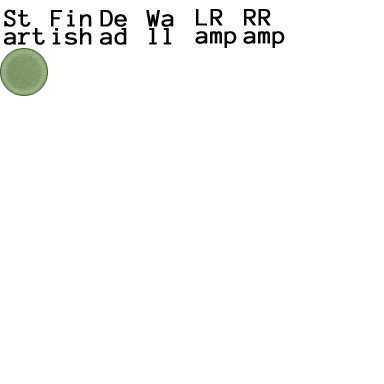
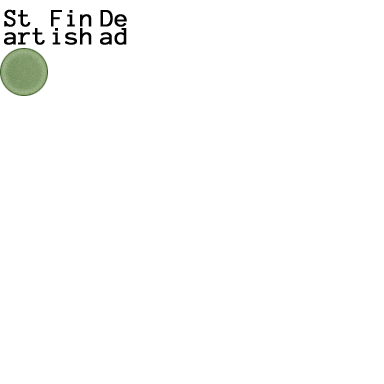
Better collisions & controls

Changed region(s): [[0.5, 0.0, 0.75, 0.125], [0.375, 0.0312, 0.4688, 0.125]]

diff --git a/game/player.js b/game/player.js
@@ -4,10 +4,10 @@ define(['consts', 'wan-components'], function(consts) {
 
 c.c('Player', {
   
-  ACCELERATION: 0.9,
-  BOUNCING: 0.3,
+  ACCELERATION: 1.2,
+  BOUNCING: 0.4,
   FRICTION: 0.85,
-  JUMP: 7,
+  JUMP_TABLE: [7],
 
   init: function() {
     this.addComponent('Image, Keyboard, Canvas, Collision');
@@ -24,85 +24,122 @@ c.c('Player', {
     this.onHit('Ramp', this._hitRamp);
     this.xSpeed = 0;
     this.ySpeed = 0;
+    this.prevX = 0;
+    this.prevY = 0;
+    this.collisions = {};
+    
+    this.jumping = false;
+    this.bodySize = 1;
   },
   
   _enterFrame: function(e) {
-    if (this.isDown('LEFT_ARROW')) {
-      this.xSpeed -= this.ACCELERATION;
+    // Handle collisions
+    if (this.collisions.hitFloor && !this.collisions.hitCeiling) {
+      // Floor
+      if (Math.abs(this.collisions.hitFloor.overlap) > 1) {
+        this.y -= Math.abs(this.collisions.hitFloor.overlap) / 2;
+      }
+      else {
+        this.ySpeed = 0;
+      }
+      this.ySpeed *= -this.BOUNCING;
+      // Fall from edges
+      var i = this.collisions.hitFloor.obj.i, j = this.collisions.hitFloor.obj.j;
+      if (this.x - this.collisions.hitFloor.obj.x > 30
+        && !this.level[i+1][j] && Math.abs(this.xSpeed) < 3) {
+        this.xSpeed++;
+      }
+      if (this.x - this.collisions.hitFloor.obj.x < -30
+        && !this.level[i-1][j] && Math.abs(this.xSpeed) < 3) {
+        this.xSpeed--;
+      }
     }
-    if (this.isDown('RIGHT_ARROW')) {
-      this.xSpeed += this.ACCELERATION;
+    else if (!this.collisions.hitFloor && this.collisions.hitCeiling) {
+      // Ceiling
+      this.ySpeed *= -this.BOUNCING;
+      this.y -= this.collisions.hitCeiling.overlap;
     }
-    if (this.isDown('UP_ARROW') && this.onFloor) {
-      this.ySpeed = -this.JUMP;
+    if (this.collisions.hitLeftWall && !this.collisions.hitRightWall) {
+      // Left wall
+      this.xSpeed *= this.FRICTION;
+      this.x -= this.collisions.hitLeftWall.overlap;
     }
-    this.xSpeed *= this.FRICTION;
+    else if (!this.collisions.hitLeftWall && this.collisions.hitRightWall) {
+      // Right wall
+      this.xSpeed *= this.FRICTION;
+      this.x += this.collisions.hitRightWall.overlap;
+    }
+    else if (this.collisions.hitLeftWall && this.collisions.hitRightWall) {
+      // Vertical "tube"
+      this.xSpeed = 0;
+    }
     
-    if (!this.onFloor) {
+    // Handle physics
+    if (!this.collisions.hitFloor) {
       this.ySpeed += consts.GRAVITY;
     }
-    this.onFloor = false;
+    else if (this.jumping) {
+      this.jumping = false;
+    }
+    if (!this.jumping) {
+      this.xSpeed *= this.FRICTION;
+    }
     
+    // Handle controls
+    if (!this.jumping) {
+      if (this.isDown('LEFT_ARROW') && !this.collisions.hitLeftWall) {
+        this.xSpeed -= this.ACCELERATION;
+      }
+      if (this.isDown('RIGHT_ARROW') && !this.collisions.hitRightWall) {
+        this.xSpeed += this.ACCELERATION;
+      }
+      if (this.isDown('UP_ARROW') && !this.jumping
+        && this.collisions.hitFloor && !this.collisions.hitCeiling) {
+        if (this.isDown('LEFT_ARROW')) {
+          this.xSpeed = -5;
+        }
+        if (this.isDown('RIGHT_ARROW')) {
+          this.xSpeed = 5;
+        }
+        this.ySpeed = -this.JUMP_TABLE[this.bodySize - 1];
+        this.jumping = true;
+      }
+    }
+    
+    // Update position/rotation
     this.x += this.xSpeed;
     this.y += this.ySpeed;
-    this.rotation += this.xSpeed;
+    this.rotation += (this.x - this.prevX) * 2;
+    this.prevX = this.x;
+    this.prevY = this.y;
+    
+    this.collisions = {};
   },
   
   _hitWall: function(e) {
+    // Collisions lookup object: hitFloor, hitCeiling, hitLeftWall, hitRightWall
+    
     _.each(e, function(collision) {
-      // If top almost reached, consider it a floor
-      if (collision.normal.x != 0 && collision.obj.y - this.y > this.h - 30) {
-        collision.normal = {x: 0, y: -1};
-        this.xSpeed *= .8;
+      if (collision.normal.x == 1) {
+        this.collisions.hitLeftWall = collision;
       }
-  
-      // Walls
-      if (collision.normal.x == -1) {
-        this.xSpeed *= -this.BOUNCING;
-        if (collision.overlap < 1) {
-          this.x += collision.overlap;
-        }
+      else if (collision.normal.x == -1) {
+        this.collisions.hitRightWall = collision;
       }
-     else if (collision.normal.x == 1) {
-      this.xSpeed *= -this.BOUNCING;
-      if (collision.overlap < 1) {
-        this.x -= collision.overlap;
+      else if (collision.normal.y == -1) {
+        this.collisions.hitFloor = collision;
       }
-     }
-     
-     // Floor
-     else if (collision.normal.y == -1) {
-      this.onFloor = true;
-      this.ySpeed *= -this.BOUNCING;
-      if (collision.overlap < 1) {
-        this.y += collision.overlap;
+      else if (collision.normal.y == 1) {
+        this.collisions.hitCeiling = collision;
       }
-     }
-     
-     // Ceiling
-     else if (collision.normal.y == 1) {
-      this.ySpeed = 0;
-      if (collision.overlap < 1) {
-        this.y -= collision.overlap;
-      }
-     }
-     
-    }, this);
-  },
-  
-  _hitRamp: function(e) {
-    _.each(e, function(collision) {
-       this.onFloor = true;
-       this.x -= collision.normal.x * collision.overlap;
-       this.y -= collision.normal.y * collision.overlap;
-       this.xSpeed *= 1.1;
     }, this);
   }
+  
 });
 
 c.c('Wall', {
   
-  MARGIN: 1,
+  MARGIN: 0,
 
   init: function() {
     this.addComponent('Collision');
@@ -111,26 +148,6 @@ c.c('Wall', {
       [this.w-this.MARGIN,this.MARGIN],
       [this.w-this.MARGIN,this.w-this.MARGIN],
       [this.MARGIN,this.w-this.MARGIN]);
-  }
-  
-});
-
-c.c('LeftRamp', {
-
-  init: function() {
-    this.addComponent('Ramp, Collision');
-    this.attr({w: consts.TILESIZE, h: consts.TILESIZE});
-    this.collision([48,0], [48,48], [0,48]);
-  }
-  
-});
-
-c.c('RightRamp', {
-
-  init: function() {
-    this.addComponent('Ramp, Collision');
-    this.attr({w: consts.TILESIZE, h: consts.TILESIZE});
-    this.collision([0,0], [48,48], [0,48]);
   }
   
 });

diff --git a/game/tiledLevel.js b/game/tiledLevel.js
@@ -24,12 +24,12 @@
           if (tsProperties[tNum - 1 - tNumOffset]) {
             var tsPropIndex = tNum - 1 - tNumOffset;
             if (tsProperties[tsPropIndex]["components"]) {
-             // if (tsProperties[tsPropIndex]["object"] !== undefined) {
+              if (tsProperties[tsPropIndex]["object"] !== undefined) {
                 components = "2D, " + drawType + ", " + tsProperties[tsPropIndex]["components"];
-             /* }
+              }
               else {
                 components += ", " + tsProperties[tsPropIndex]["components"];
-              }*/
+              }
             }
           }
         }
@@ -50,13 +50,28 @@
     makeLayer: function(layer) {
       var i, lData, lHeight, lWidth, tDatum, tile, _len;
       lData = layer.data, lWidth = layer.width, lHeight = layer.height;
+      var level = [];
       for (i = 0, _len = lData.length; i < _len; i++) {
         tDatum = lData[i];
+        var tileI = i % lWidth;
+        var tileJ = Math.floor(i / lHeight);
+        
         if (tDatum) {
           tile = Crafty.e("tile" + tDatum);
           tile.x = (i % lWidth) * tile.w;
           tile.y = (i / lWidth | 0) * tile.h;
+          tile.i = tileI;
+          tile.j = tileJ;
+          tile.level = level;
+          
+          // Fill level table
+          if (!level[tileI]) {
+            level[tileI] = [];
+          }
+          level[tileI][tileJ] = tile;
         }
+        
+        
       }
       return null;
     },

diff --git a/game/game.js b/game/game.js
@@ -10,8 +10,11 @@ define(['consts', 'wan-components', 'tiledLevel', 'player'], function(consts) {
 
     // Game scene
     c.scene('game', function() {
-      Crafty.e('TiledLevel').tiledLevel('level1.json', 'Canvas', function() {
+      c.e('TiledLevel').tiledLevel('level1.json', 'DOM', function() {
         console.log('level1.json loaded');
+      });
+      c.e('2D, DOM, Text').bind('EnterFrame', function() {
+        this.text(c.timer.getFPS());
       });
     });
     

diff --git a/lib/crafty.js b/lib/crafty.js
@@ -4128,7 +4128,7 @@ Crafty.storage = (function () {
     * @comp Crafty.support
     * Is WebGL supported on the canvas element?
     */
-    if (support.canvas) {
+    if (support.canvas && typeof(canvas) !== 'undefined') {
         var gl;
         try {
             gl = document.createElement("canvas").getContext("experimental-webgl");
